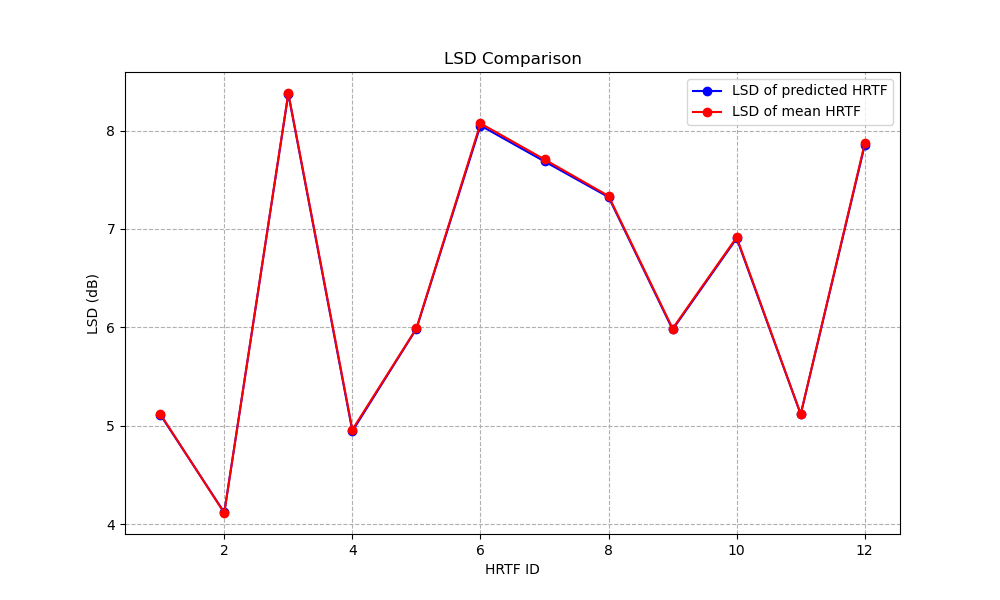
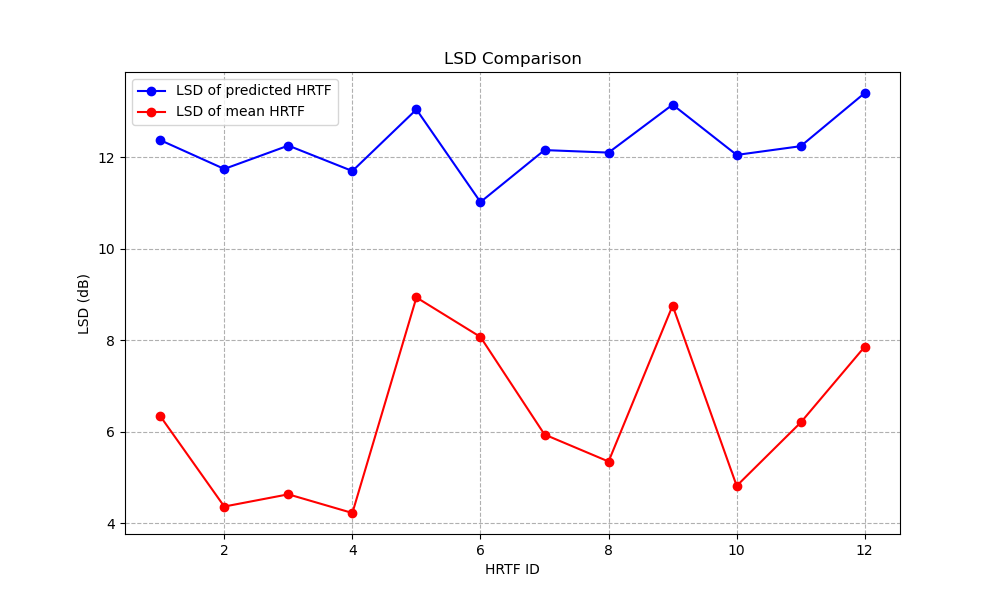
添加了mark标注更改的位置

diff --git a/NewCode/utils.py b/NewCode/utils.py
@@ -95,7 +95,7 @@ def calculate_hrtf_mean(hrtf_file_names, whichear=None):
     hrtf_mean = hrtf_sum / total_samples
     return hrtf_mean  # 保持与原始数据相同的精度
 
-def train_one_epoch(model, optimizer, data_loader, device, epoch, target_index = 1):
+def train_one_epoch(model, optimizer, data_loader, device, epoch, target_index = 50):
     model.train()
     loss_function = torch.nn.MSELoss()
     accu_loss = torch.zeros(1).to(device)  # 累计损失
@@ -108,7 +108,10 @@ def train_one_epoch(model, optimizer, data_loader, device, epoch, target_index =
         imageleft = sample_batch["left_image"].to(device)
         # imageright = sample_batch["right_image"].to(device)
         pos = sample_batch["position"].squeeze().to(device)
+        # mark
         target = sample_batch["hrtf"].squeeze(1)[:, target_index].to(device)
+        # target = sample_batch["hrtf"].squeeze(1)[:, :].to(device)
+        
       
         # [:, target_index].to(device)
 
@@ -117,6 +120,7 @@ def train_one_epoch(model, optimizer, data_loader, device, epoch, target_index =
         output = model(imageleft,pos)
         loss = loss_function(output, target)
         accu_loss += loss.detach() # detach() 防止梯度传播
+        
 
         # 反向传播
         loss.backward()
@@ -131,7 +135,7 @@ def train_one_epoch(model, optimizer, data_loader, device, epoch, target_index =
 
 
 @torch.no_grad()
-def evaluate(model, data_loader, device, epoch, target_index = 1):
+def evaluate(model, data_loader, device, epoch, target_index = 50):
     model.eval()
     loss_function = torch.nn.MSELoss()
     accu_loss = torch.zeros(1).to(device)  # 累计损失
@@ -142,7 +146,10 @@ def evaluate(model, data_loader, device, epoch, target_index = 1):
         imageleft = sample_batch["left_image"].to(device)
         # imageright = sample_batch["right_image"].to(device)
         pos = sample_batch["position"].squeeze().to(device)
+        # mark
         target = sample_batch["hrtf"].squeeze(1)[:, target_index].to(device)
+        # target = sample_batch["hrtf"].squeeze(1)[:, :].to(device)
+        
 
         # 前向传播
         #output = model(imageleft, imageright, pos)

diff --git a/NewCode/train.py b/NewCode/train.py
@@ -8,14 +8,16 @@ from torchvision import transforms
 
 
 # from my_dataset import MyDataSet
-from new_dataset import SonicomDataSet, SingleSubjectDataSet
+from single_dataset import SonicomDataSet, SingleSubjectDataSet
 from vit_model import vit_base_patch16_224_in21k as create_model
 # from utils import read_split_data, train_one_epoch, evaluate
 from utils import split_dataset, train_one_epoch, evaluate
 
-
+target_index = 50
 def main(args):
+    global target_index
     device = torch.device(args.device if torch.cuda.is_available() else "cpu")
+    print(device)
 
     if os.path.exists("./weights") is False:
         os.makedirs("./weights")
@@ -145,14 +147,16 @@ def main(args):
                                                 optimizer=optimizer,
                                                 data_loader=train_loader,
                                                 device=device,
-                                                epoch=epoch)
+                                                epoch=epoch,
+                                                target_index = target_index)
 
 
         # validate
         val_loss = evaluate(model=model,
                                      data_loader=val_loader,
                                      device=device,
-                                     epoch=epoch)
+                                     epoch=epoch,
+                                     target_index = target_index)
 
         tags = ["train_loss", "train_acc", "val_loss", "val_acc", "learning_rate"]
         tb_writer.add_scalar(tags[0], train_loss, epoch)

diff --git a/NewCode/cal_LSD_single.py b/NewCode/cal_LSD_single.py
@@ -13,12 +13,12 @@ from new_dataset import SonicomDataSet, SingleSubjectDataSet
 
 # from utils import read_split_data, train_one_epoch, evaluate
 
-model_path = "weights\model-9.pth"
+model_path = "weights-100\model-1.pth"
 # model_path = "123"
 
-target_index = 100
+target_index = 50
 
-def evaluate_one_hrtf(model, test_loader, target_index = 1):
+def evaluate_one_hrtf(model, test_loader, target_index = 50):
     model.eval()
 
     all_preds = []
@@ -31,8 +31,12 @@ def evaluate_one_hrtf(model, test_loader, target_index = 1):
             imageleft = batch["left_image"].to(device) #[batch, 3, 224, 224]
             # imageright = batch["imageright"].to(device)
             position = batch["position"].squeeze(1).to(device) #[batch, 2]
+            # mark
             targets = batch["hrtf"].squeeze(1)[:, target_index].to(device)  # [batch]
             meanloghrtf = batch["meanlog"].unsqueeze(-1)[:, target_index].to(device)  # [batch]
+            
+            # targets = batch["hrtf"].squeeze(1)[:, :].to(device)  # [batch]
+            # meanloghrtf = batch["meanlog"][:, :].to(device)  # [batch]
 
             # 前向传播
             # outputs = model(imageleft,imageright, position)  # [batch]

diff --git a/NewCode/vit_model.py b/NewCode/vit_model.py
@@ -243,8 +243,10 @@ class VisionTransformer(nn.Module):
             nn.Dropout(0.1)  # 可选：保留少量正则化
         )'''
         # 修改head层（每个token独立预测）
-        # mark 改单频率将108改为1
+        # # mark 改单频率将108改为1
         self.heads = nn.ModuleList([nn.Linear(768, 1) for _ in range(1)])
+        # self.heads = nn.ModuleList([nn.Linear(768, 1) for _ in range(108)])
+        
         
         # 调整位置编码映射层（将位置信息映射到与图像特征相同维度）
         self.pos_proj = nn.Linear(2, embed_dim)  # 输入维度是位置信息的2，输出768
@@ -332,6 +334,8 @@ class VisionTransformer(nn.Module):
         # output [B, 108]
         # attn_output shape: [B, 108, 768]'''
         outputs = []
+        # mark
+        # for i in range(108):
         for i in range(1):
             # 对每个位置应用对应的线性层
             out = self.heads[i](attn_output[:, i, :])  # [B, 1]

diff --git a/only_position/new_dataset.py b/only_position/new_dataset.py
@@ -8,7 +8,7 @@ from torchvision import transforms
 from utils import calculate_hrtf_mean
 
 class SonicomDataSet(Dataset):
-    """人耳图像数据集，更改输出模式为仅输出一个频率的HRTF"""
+    """人耳图像数据集，更改输出模式为仅输出一个方向的HRTF"""
     def __init__(self, hrtf_files: list, left_images: list, right_images: list, 
                  transform=None, calc_mean=True, mode="left", provided_mean_left=None, 
                  provided_mean_right=None):
@@ -43,8 +43,8 @@ class SonicomDataSet(Dataset):
 
     def __getitem__(self, idx):
         # 计算文件索引和方位索引
-        file_idx = idx // self.positions_per_subject
-        position_idx = idx % self.positions_per_subject
+        file_idx = idx
+        position_idx = 0
 
         # 读取HRTF数据
         with h5py.File(self.hrtf_files[file_idx], 'r') as data:
